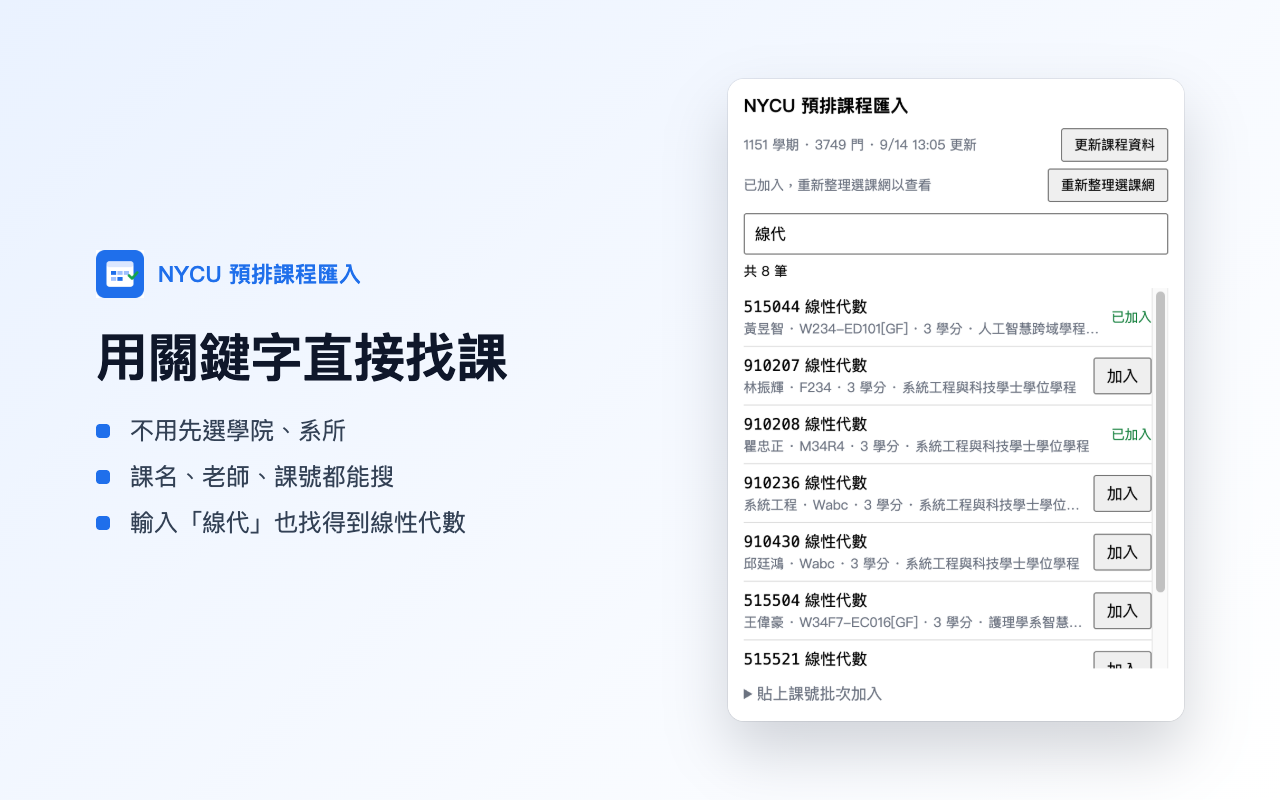
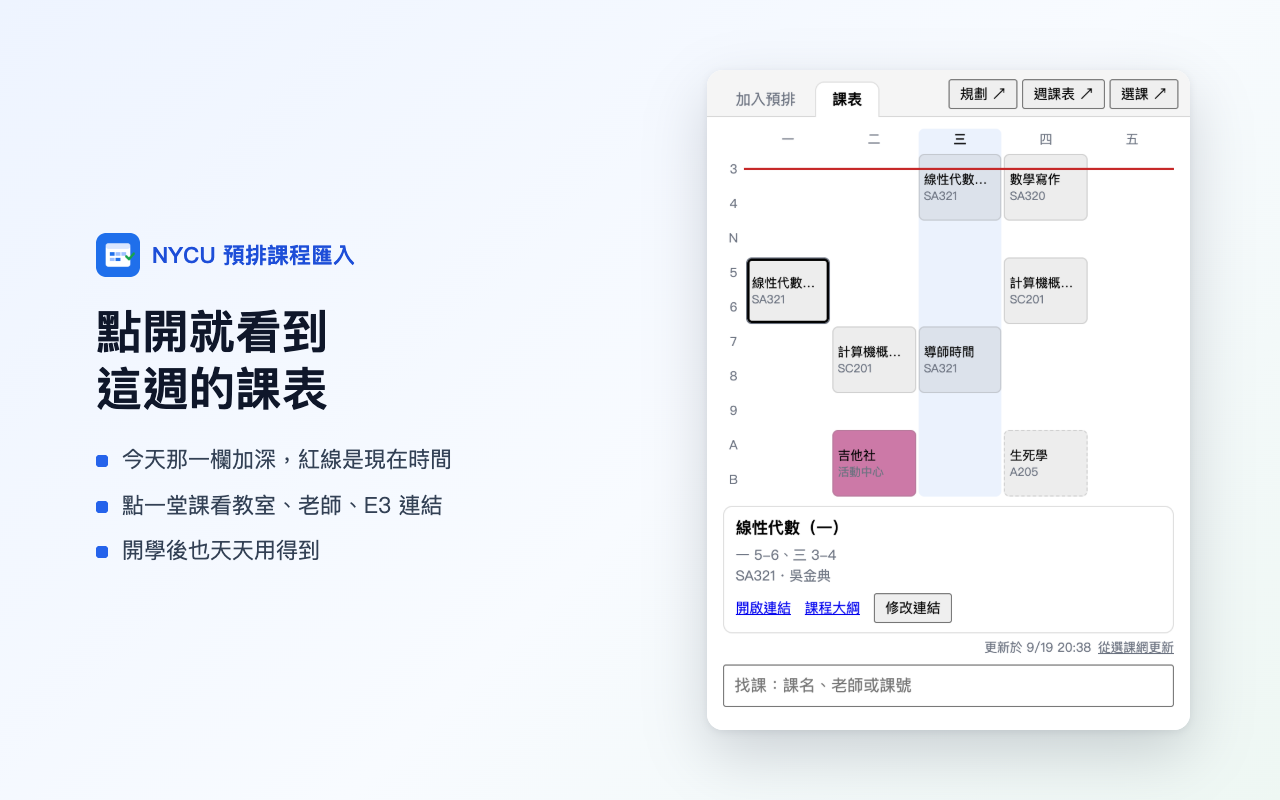
版本 0.9.1：popup 採計方式選項移到該課下方；商店說明、截圖、隱私權政策與送審指南更新

Changed region(s): [[0.5312, 0.0938, 0.9375, 0.9375], [0.0625, 0.2812, 0.4062, 0.7188]]

diff --git a/src/popup/course-search.js b/src/popup/course-search.js
@@ -99,9 +99,10 @@ function courseRow(course) {
   } else {
     actions.append(stateLabel(s))
   }
-  if (s && s.status === 'choose') li.append(choiceRow(course.id, s.options))
 
   li.append(info, actions)
+  // 採計方式的選項放在這門課下面，才看得出是哪一門的
+  if (s && s.status === 'choose') li.append(choiceRow(course.id, s.options))
   return li
 }
 

diff --git a/store/description.md b/store/description.md
@@ -4,43 +4,48 @@
 NYCU 預排課程匯入
 
 ## 簡短說明（取自 manifest，132 字以內）
-搜尋陽明交大課程，一鍵加入預排或正式選課，並提供我的課表與每日自動登記。
+搜尋與規劃陽明交大課程：找空堂、加入預排與正式選課，並提供課表與每日自動登記。
 
 ## 詳細說明
-陽明交通大學選課系統要先選學院、系所才找得到課，加退選期間每天還要重新登記。這個擴充功能把找課、排課、選課放在一起。
+陽明交通大學選課系統要先選學院、系所才找得到課，加退選期間每天還要重新登記。這個擴充功能把找課、排課、選課、看課表放在一起。
 
-【搜尋與預排】
+【點開就看到課表】
+- 工具列圖示點開就是這週的課表：今天那一欄加深，紅線是現在時間。
+- 點一堂課看教室、老師，開啟你設定的連結（例如 E3）或課程大綱。
+- 可以加入外校課程或自己的固定行程。開學後也天天用得到。
+
+【用關鍵字找課，加入預排】
 - 用課名、老師或課號搜尋全校課程，支援片段比對，例如輸入「線代」可以找到「線性代數」。
-- 搜尋結果顯示人數上限，可即時查目前登記人數，並附課程綱要連結。
-- 按「加入」放進選課系統的預排課程；也能一次貼上多個課號批次加入。
-- 課程資料按「更新課程資料」從學校課程時間表下載，存在自己的電腦。
+- 同一門課可能算選修或核心課程，加入預排時就讓你選好採計方式。
+- 可以即時查目前的登記人數，也能一次貼上多個課號批次加入。
 
-【我的課表】
-- 用週課表顯示預排課程或正式選上的課，兩者可以切換，離線也能看。
-- 可以加入外校課程或自己的固定行程，並替每堂課設定連結（例如 E3）與顏色。
+【選課規劃：找空堂課程】
+- 在一週的時段格子上按住拖曳，框出想上課的時段；或一鍵帶入所有空堂。
+- 可以篩選完全落在時段內或部分重疊的課，也能篩校區、類別（必修、選修、核心、語言與溝通）、系所（可複選、可搜尋）與關鍵字。
+- 滑過一門課，格子上就會標出它的上課時間。
+- 每門課標出目前狀態：已選上、登記中、在預排。
 
-【正式選課】
-- 從預排課程直接加選；通識、體育等志願序課程可以選擇第幾志願，也能改志願。
-- 清楚區分「已登記」（等分發）和「已選上」。
+【查詢、加選、登記】
+- 列出每種採計方式能不能選、人數與衝堂原因。
+- 可以直接加選，志願序課程可以選第幾志願。送出前一定會再確認一次。
 - 選課系統暫停時（例如分發時段），會直接顯示學校公告的暫停時間。
 
 【每日自動登記】（選用，預設關閉）
-- 加退選期間每天中午開放登記，分發後要重新登記。你可以指定課程、志願和每天的時間（例如 13:00），擴充功能會在那個時間幫你登記。
-- 已登記或已選上的課不會重送；選課系統暫停或登入過期時不會送出，並留下紀錄。
-- 執行時電腦和 Chrome 要開著，選課網要保持登入。
+- 加退選期間每天中午開放登記，分發後要重新登記。你可以指定課程、志願和每天的時間，擴充功能會在那個時間幫你登記。
+- 已登記或已選上的課不會重送；選課系統暫停、沒登入或讀不到資料時不會送出，並留下紀錄。
 
-使用方式：先在 Chrome 登入選課系統，所有操作都用你自己的登入狀態在選課系統網站內進行。擴充功能不會讀取或保存你的密碼，也不會把資料傳給開發者或第三方。
+使用方式：先在 Chrome 登入選課系統。所有選課操作都在選課系統網站內、用你自己的登入狀態進行。擴充功能不會讀取或保存你的密碼，也不會把資料傳給開發者或第三方。不提供退選。
 
 本擴充功能非學校官方工具。原始碼公開於 GitHub。
 
 ## 類別
-生產力工具
+生產力工具（Productivity）；如有教育（Education）可選教育
 
 ## 單一用途說明（審核用）
-協助陽明交大學生選課：搜尋課程、加入預排或正式選課，並以課表檢視已選課程。
+協助陽明交大學生選課：搜尋與規劃課程、加入預排與正式選課，並以課表檢視已選課程。
 
 ## 權限說明（審核用）
-- storage：把公開課程資料、使用者自己的課表與自動登記設定存在本機。
+- storage：把公開課程資料、使用者自己的課表、選課規劃的時段與篩選條件、自動登記設定存在本機。
 - alarms：使用者開啟「每日自動登記」時，在使用者設定的時間執行登記。未開啟時不建立任何排程。
 - host_permissions cos.nycu.edu.tw：在選課系統頁面內注入腳本，以使用者目前的登入狀態呼叫該站自身的預排、選課 API。
 - host_permissions timetable.nycu.edu.tw：下載學校公開的課程時間表資料。

diff --git a/store/privacy.md b/store/privacy.md
@@ -6,7 +6,8 @@
 - 加入預排時，擴充功能只在 https://cos.nycu.edu.tw 的頁面上執行，用使用者輸入或選擇的課號呼叫選課系統本身的預排 API。請求由使用者的瀏覽器直接送往選課系統，不經過任何第三方伺服器。
 - 擴充功能會讀取選課系統頁面已存在的登入權杖，以便代替使用者在同一個網站發出請求；權杖不會被複製、儲存或傳出該網站。
 - 正式選課與每日自動登記同樣只在 https://cos.nycu.edu.tw 上，用使用者自己選的課程與志願呼叫選課系統本身的 API。自動登記預設關閉，只有使用者開啟後才會在使用者設定的時間執行。
-- 使用者的課表、自訂行程、課程連結與自動登記設定和紀錄，只存在瀏覽器的擴充功能本機儲存空間，不會上傳。
+- 選課規劃頁的查詢、加入預排、加選與登記，同樣只在 https://cos.nycu.edu.tw 上，用使用者自己選的課程呼叫選課系統本身的 API；加選與登記一定要使用者在確認視窗按下送出才會執行。
+- 使用者的課表、自訂行程、課程連結、選課規劃的時段與篩選條件、課程狀態，以及自動登記設定和紀錄，只存在瀏覽器的擴充功能本機儲存空間，不會上傳。
 - 沒有遙測、沒有分析工具、沒有廣告。
 
-最後更新：2026-09-17
+最後更新：2026-09-19
